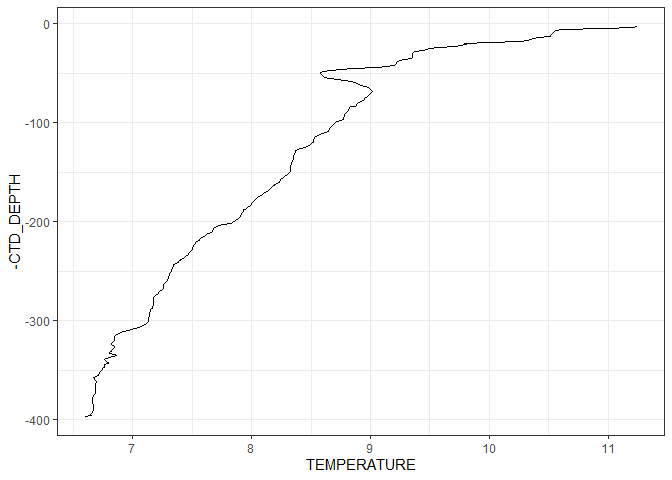
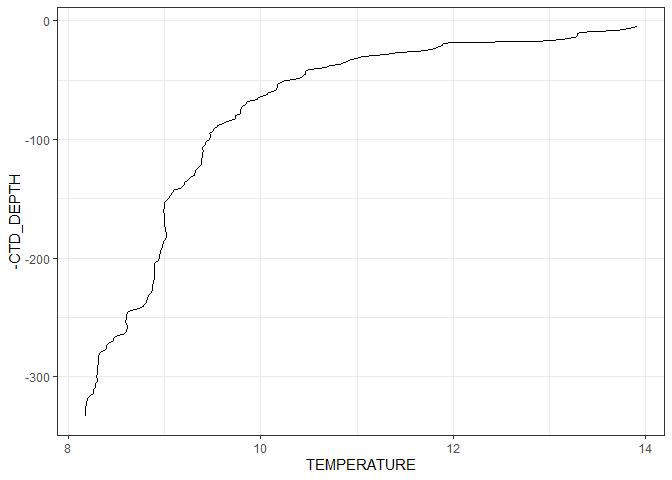
recompile readme

diff --git a/README.md b/README.md
@@ -6,7 +6,7 @@
 <!-- badges: start -->
 <!-- badges: end -->
 
-This package contains data and support functions for the NOAA SWFSC
+This package contains data and support functions for the NOAA NMFS SWFSC
 Rockfish Recruitment and Ecosystem Assessment Survey (RREAS).
 
 This is version 0.2.0. Please report any problems!
@@ -37,6 +37,8 @@ To install the latest version of the package:
 ``` r
 #install.packages("devtools") #if required
 devtools::install_github("tanyalrogers/RREAS")
+#if that doesn't work, try
+pak::pak("tanyalrogers/RREAS")
 ```
 
 ## Package overview
@@ -61,11 +63,11 @@ The package also contains a copy of the trawl-associated data (`HAUL`,
 `CATCH`, `LENGTH`) posted on
 [ERDDAP](https://oceanview.pfeg.noaa.gov/erddap/index.html), which
 contain only a subset of the data posted on Dryad. The ERDDAP dataset
-contains data from 1990 to 2025 and for standard, active stations only.
-The trawl-associated data can be loaded using `load_erddap()`. Note that
-the `WEIGHT` table is not included in this dataset, and there are
-differences in how the krill and young-of-the-year rockfish MATURITY is
-coded: The ERDDAP dataset contains additional SPECIES/MATURITY
+contains data from 1990 to 2025 and for standard, active trawl stations
+only. The trawl-associated data can be loaded using `load_erddap()`.
+Note that the `WEIGHT` table is not included in this dataset, and there
+are differences in how the krill and young-of-the-year rockfish MATURITY
+is coded: The ERDDAP dataset contains additional SPECIES/MATURITY
 categories 1472/T (total krill) and 1940/T (total rockfish). The catch
 table on ERDDAP is reformatted into relational `HAUL` and `CATCH` tables
 to match the format of the other data sources. The `SPECIES_CODES` and
@@ -217,7 +219,7 @@ unique(sptable_lw$NAME) #available species and species groups
 #> [21] "Armhook squid"            "Thetys salp"             
 #> [23] "Blacktip squid"           "Moon jelly"              
 #> [25] "Boreal clubhook squid"    "Blue lanternfish"        
-#> [27] "California headlightfish" "California lanternfish"  
+#> [27] "California headlightfish" "Bigfin lanternfish"      
 #> [29] "Nannobrachium spp."       "Mexican lampfish"        
 #> [31] "Northern lampfish"        "Total Myctophids"        
 #> [33] "Total Krill"              "Carinaria"               
@@ -409,7 +411,7 @@ If a haul had no fish, it will appear in the output dataset (with
 TOTAL_NO=0). If a haul had fish, but no fish were measured, there will
 be a TOTAL_NO\>0, NMEAS will be 0, and there will be a single
 length/mass entry for that haul, which will be the average value. *For
-calculating distributions, you will probably want to exclude any tows
+calculating distributions, you will probably want to exclude any hauls
 with NMEAS=0.*
 
 The output table will include TOTAL_NO, NMEAS (number measured), EXP
@@ -554,9 +556,10 @@ tail(anchmassdist, 10)
 #> 17523          0  NA    NA     0         NA    NA       NA
 ```
 
-Note that if you are combining distributions across tows, they will need
-to be weighted by the total number of individuals caught. This is most
-easily done by binning the lengths and summing the expansion factors.
+Note that if you are combining distributions across hauls, they will
+need to be weighted by the total number of individuals caught. This is
+most easily done by binning the lengths and summing the expansion
+factors.
 
 ``` r
 library(ggplot2)
@@ -564,7 +567,7 @@ library(dplyr)
 
 binwidth <- 6
 breaks <- seq(min(anchsizedist$STD_LENGTH, na.rm = T),
-           max(anchsizedist$STD_LENGTH, na.rm = T), by = binwidth)
+              max(anchsizedist$STD_LENGTH, na.rm = T), by = binwidth)
 
 anchsizedist$bin=cut(anchsizedist$STD_LENGTH, breaks, labels = breaks[-1]-binwidth/2)
 
@@ -643,40 +646,40 @@ ggplot(anchindex2plot,aes(y=BIOMASS_INDEX,x=YEAR)) +
 
 <img src="man/figures/README-indices-2.png" width="100%" />
 
-## Depth-stratified tows
+## Depth-stratified trawls
 
-RREAS standard tows are conducted at 30 m headrope depth (DEPTH_STRATA
+RREAS standard trawls are conducted at 30 m headrope depth (DEPTH_STRATA
 2), with the exception of stations with a bottom depth of less than 60
 m, which are towed at 10 m headrope depth (DEPTH_STRATA 1). These are
-the tows which appear in HAULSTANDARD.
+the hauls which appear in HAULSTANDARD.
 
 Historically, mostly before the coastwide expansion in 2004, multiple
 depth strata (DEPTH_STRATA 1: 10 m, DEPTH_STRATA 2: 30 m, DEPTH_STRATA
 3: 90 m) were sampled in succession at specific stations, mostly at
 stations 110, 125, 133, and 170, but occasionally others. The function
-`load_depth_stratified_tows` pulls out these depth-stratified tows into
-the table HAULDEPTHSTRATIFED. It has the same format as HAULSTANDARD,
-but with a few extra columns: DEPTH_STRATA, SWEEP (indicates which of
-the 3 passes the sampling is from; there is generally one set of
-depth-stratified tows per sweep, but not always), and SWEEP_SEP
-(separates cases in which there are multiple sets of depth stratified
-tows per sweep, and sets of depth stratified tows where SWEEP in NA,
-which occurs after 2004; otherwise equal to SWEEP). Each set of
-consecutive depth stratified tows will have a unique
+`load_depth_stratified_trawls` pulls out these depth-stratified trawls
+into the table HAULDEPTHSTRATIFED. It has the same format as
+HAULSTANDARD, but with a few extra columns: DEPTH_STRATA, SWEEP
+(indicates which of the 3 passes the sampling is from; there is
+generally one set of depth-stratified trawls per sweep, but not always),
+and SWEEP_SEP (separates cases in which there are multiple sets of depth
+stratified trawls per sweep, and sets of depth stratified trawls where
+SWEEP in NA, which occurs after 2004; otherwise equal to SWEEP). Each
+set of consecutive depth stratified trawls will have a unique
 CRUISE/STATION/SWEEP_SEP value.
 
 HAULDEPTHSTRATIFED can be passed to `get_totals` or `get_distributions`
 to get catch data from these hauls instead of HAULSTANDARD by supplying
-it under `haultable`. Note that all of the depth-stratified tows are not
-present in the ERDDAP dataset.
+it under `haultable`. Note that all of the depth-stratified trawls are
+not present in the ERDDAP dataset.
 
-Note that to get *all* of the depth-stratified tows, you have to include
-the non-active stations (`activestationsonly = FALSE`).
+Note that to get *all* of the depth-stratified trawls, you have to
+include the non-active stations (`activestationsonly = FALSE`).
 
 ``` r
 load_trawls(activestationsonly = FALSE)
 #> Data loaded.
-load_depth_stratified_tows()
+load_depth_stratified_trawls()
 #> HAULDEPTHSTRATIFED created.
 str(HAULDEPTHSTRATIFIED)
 #> 'data.frame':    669 obs. of  20 variables:
@@ -703,7 +706,7 @@ str(HAULDEPTHSTRATIFIED)
 
 anchabund_ds <- get_totals(anchtable, what = "abundance", haultable = HAULDEPTHSTRATIFIED)
 
-#to get depth stratified tows with all 3 strata sampled
+#to get depth stratified trawls with all 3 strata sampled
 HAULDEPTHSTRATIFIED <- HAULDEPTHSTRATIFIED %>% 
   group_by(CRUISE,STATION,SWEEP_SEP) %>%
   mutate(ustrata=length(unique(DEPTH_STRATA)))
@@ -712,9 +715,60 @@ filter(HAULDEPTHSTRATIFIED, ustrata==3) %>% nrow()
 filter(HAULDEPTHSTRATIFIED, ustrata==3 & YEAR>=1990) %>% nrow()
 #> [1] 288
 
-#see which tows have CTDs
+#see which hauls have CTDs
 HAULDEPTHSTRATIFIED <- HAULDEPTHSTRATIFIED %>%
   left_join(HAUL %>% select(CRUISE, HAUL_NO, CTD_INDEX), by = c("CRUISE", "HAUL_NO"))
+```
+
+## Trawls aborted due to gelatinous organisms
+
+For calculations involving jellies (specifically SPECIES 2840 moon
+jelly, 1766 sea nettle, and 2842 egg jelly) and/and pelagic tunicates
+(SPECIES 2393 salps, 2058 pyrosomes), users should consider using trawls
+with PROBLEM=3 for jellies and/or PROBLEM=9 for pelagic tunicates. These
+were trawls where those organisms were so abundant that a valid trawl
+was not possible and catch data are missing or inaccurate. The NOTES
+column will indicate the specific species involved, if it was recorded.
+Some of these hauls have accurate values in the CATCH table for the
+gelatinous organisms only, but not any other species. These problem
+codes include hauls with HAUL_NO ≥ 900, which are hauls skipped due to
+high abundance of gelatinous organisms. For catch numbers in the case of
+missing data, the maximum valid catch (or average of the five largest
+valid catches) for those organisms could be used as a substitute, as has
+been done in prior studies.
+
+At present, requesting totals or distributions for these species does
+not account for the aborted trawls. A way to do this more easily within
+the package architecture is something we plan to incorporate into future
+versions of the package.
+
+``` r
+jellytrawls <- subset(HAUL, PROBLEM==3)
+head(jellytrawls[,c("CRUISE","HAUL_NO","STATION","PROBLEM","NOTES")])
+#>     CRUISE HAUL_NO STATION PROBLEM
+#> 30    0002     127     138       3
+#> 100   0002      77     139       3
+#> 111   0002      87     137       3
+#> 112   0002      88     119       3
+#> 116   0002     900     119       3
+#> 144   0103     116     165       3
+#>                                                  NOTES
+#> 30       Mostly Aurelia spp. Some Chrysaora fuscescens
+#> 100                                               <NA>
+#> 111                               Chrysaora fuscescens
+#> 112                                       Aurelia spp.
+#> 116      No trawl due to large numbers of Aurelia spp.
+#> 144 Blew out net with Aurelia and Chrysaora fuscescens
+
+tunicatetrawls <- subset(HAUL, PROBLEM==9)
+head(tunicatetrawls[,c("CRUISE","HAUL_NO","STATION","PROBLEM","NOTES")])
+#>      CRUISE HAUL_NO STATION PROBLEM                   NOTES
+#> 1579   1203     900     110       9 Too many salps in bongo
+#> 1580   1203     901     109       9 Too many salps in bongo
+#> 1581   1203     902     401       9 Too many salps in bongo
+#> 1582   1203     903     444       9 Too many salps in bongo
+#> 1583   1203     904     445       9 Too many salps in bongo
+#> 1584   1203     905     134       9 Too many salps in bongo
 ```
 
 ## CTD data
@@ -740,22 +794,22 @@ head(CTD_HEADER)
 #> 4               81        11.0       33.4   11.27  33.17
 #> 5               43        12.6       33.3   12.90  32.97
 #> 6               93        11.1       33.4   11.30  33.21
-example_cast <- subset(CTD_CAST, CRUISE=="2502" & CTD_INDEX==20)
+example_cast <- subset(CTD_CAST, CRUISE=="2502" & CTD_INDEX==100)
 head(example_cast)
 #>         CRUISE CTD_INDEX CTD_DEPTH TEMPERATURE SALINITY DENSITY DYN_HGT IRRAD
-#> 1474562   2502        20         3     11.2426  33.3244 25.4275  0.0064    NA
-#> 1474563   2502        20         4     11.2149  33.3317 25.4381  0.0087    NA
-#> 1474564   2502        20         5     10.9738  33.3945 25.5299  0.0143    NA
-#> 1474565   2502        20         6     10.6090  33.4947 25.6724  0.0206    NA
-#> 1474566   2502        20         7     10.5629  33.5087 25.6914  0.0231    NA
-#> 1474567   2502        20         8     10.5484  33.5193 25.7022  0.0254    NA
+#> 1497874   2502       100         5     13.9108  33.6993 25.2006  0.0115    NA
+#> 1497875   2502       100         6     13.8775  33.6962 25.2052  0.0143    NA
+#> 1497876   2502       100         7     13.7692  33.6965 25.2278  0.0170    NA
+#> 1497877   2502       100         8     13.7109  33.6911 25.2357  0.0198    NA
+#> 1497878   2502       100         9     13.4723  33.6863 25.2806  0.0225    NA
+#> 1497879   2502       100        10     13.3262  33.6858 25.3099  0.0252    NA
 #>         FLUOR_VOLT TRANSMISSIVITY CHLOROPHYLL OXYGEN_VOLT OXYGEN
-#> 1474562     1.0572             NA    8.157230      4.0626 6.6338
-#> 1474563     1.1700             NA    8.934005      4.0337 6.4656
-#> 1474564     0.8520             NA    6.590277      3.9341 6.3376
-#> 1474565     0.6753             NA    5.279281      3.7971 6.0552
-#> 1474566     0.4549             NA    3.654961      3.7642 6.0621
-#> 1474567     0.4442             NA    3.557348      3.7440 6.0324
+#> 1497874     0.6474             NA    5.103695      4.5617 7.1594
+#> 1497875     0.6487             NA    5.086010      4.5227 7.0425
+#> 1497876     0.6632             NA    5.168427      4.4790 6.8909
+#> 1497877     0.6768             NA    5.247373      4.3626 6.3654
+#> 1497878     0.6058             NA    4.713974      4.1799 5.9748
+#> 1497879     0.4047             NA    3.237145      4.0232 5.9272
 ggplot(example_cast, aes(y=-CTD_DEPTH, x=TEMPERATURE)) +
   geom_path() + theme_bw()
 ```
@@ -827,7 +881,7 @@ current year’s data if it is not in the primary database. See
 `help(load_mdb)` for more information.
 
 The data extraction functions `get_totals` and `get_distributions` are
-used in the same way as decribed above, but you can specify which
+used in the same way as described above, but you can specify which
 `datasets` to pull data from (if they have been loaded). Only one table
 is outputted, so if you request data from multiple datasets, they
 results will be combined (column SURVEY differentiates source).
@@ -835,7 +889,7 @@ results will be combined (column SURVEY differentiates source).
 ``` r
 #Anchovy from RREAS and NWFSC surveys
 anchtabletotal <- data.frame(SPECIES=209, MATURITY=c("Y","A"),
-                        NAME=c("Total Anchovy", "Total Anchovy"))
+                             NAME=c("Total Anchovy", "Total Anchovy"))
 anchabund <- get_totals(anchtabletotal, datasets = c("RREAS","NWFSC"), what = "abundance")
 table(anchabund$SURVEY)
 #> 
@@ -924,7 +978,7 @@ ggplot(rf100plot,aes(y=N100_INDEX_SC,x=YEAR, group=COMMON, color=COMMON)) +
   labs(x="Year", y="log 100-day standardized abundance", color="Rockfish species")
 ```
 
-<img src="man/figures/README-unnamed-chunk-11-1.png" width="100%" />
+<img src="man/figures/README-rockfish100-1.png" width="100%" />
 
 If “age” is requested in `get_distributions`, the output will include
 columns STD_LENGTH, AGE, N100i (number of 100 day equivalents), and
